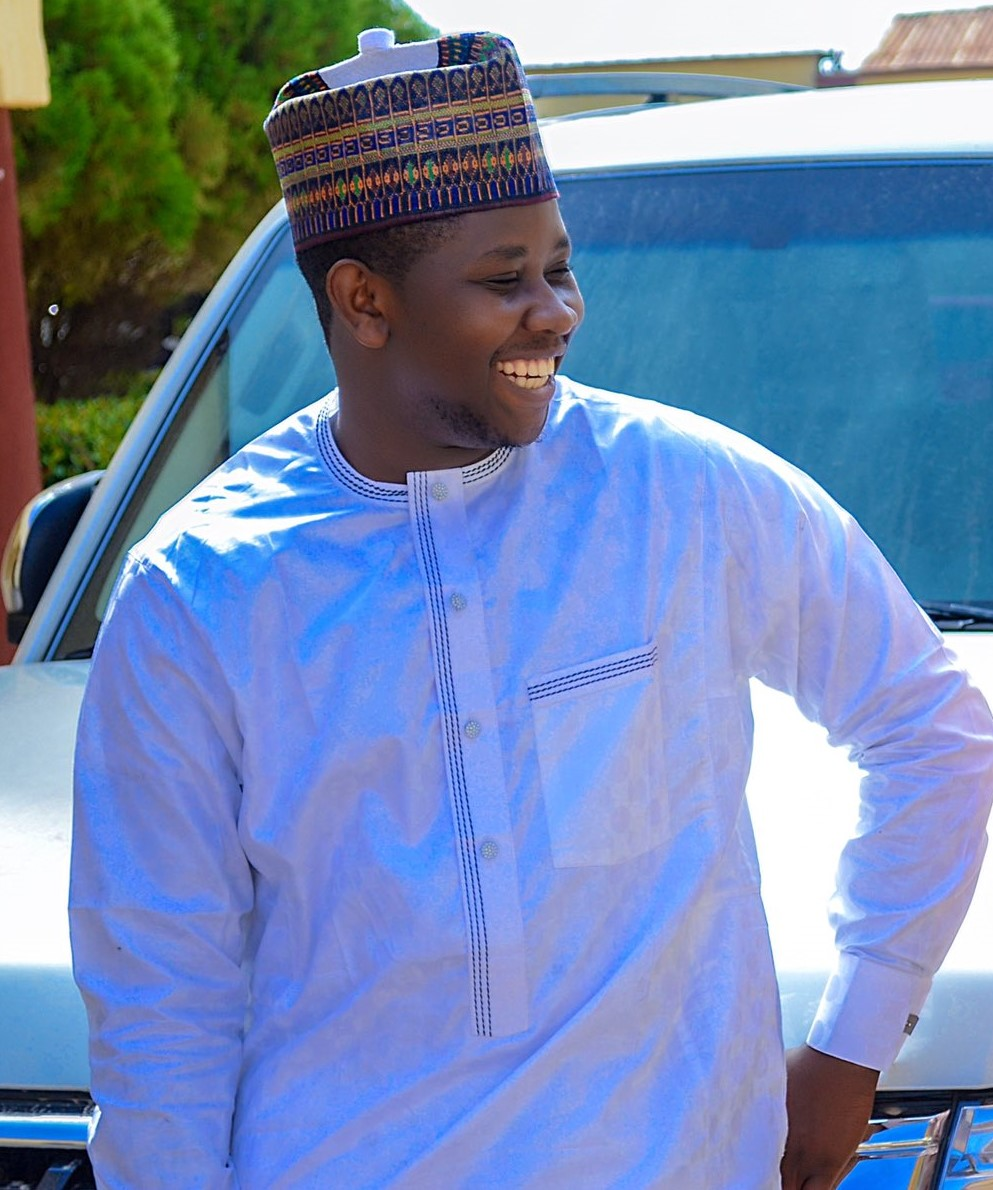
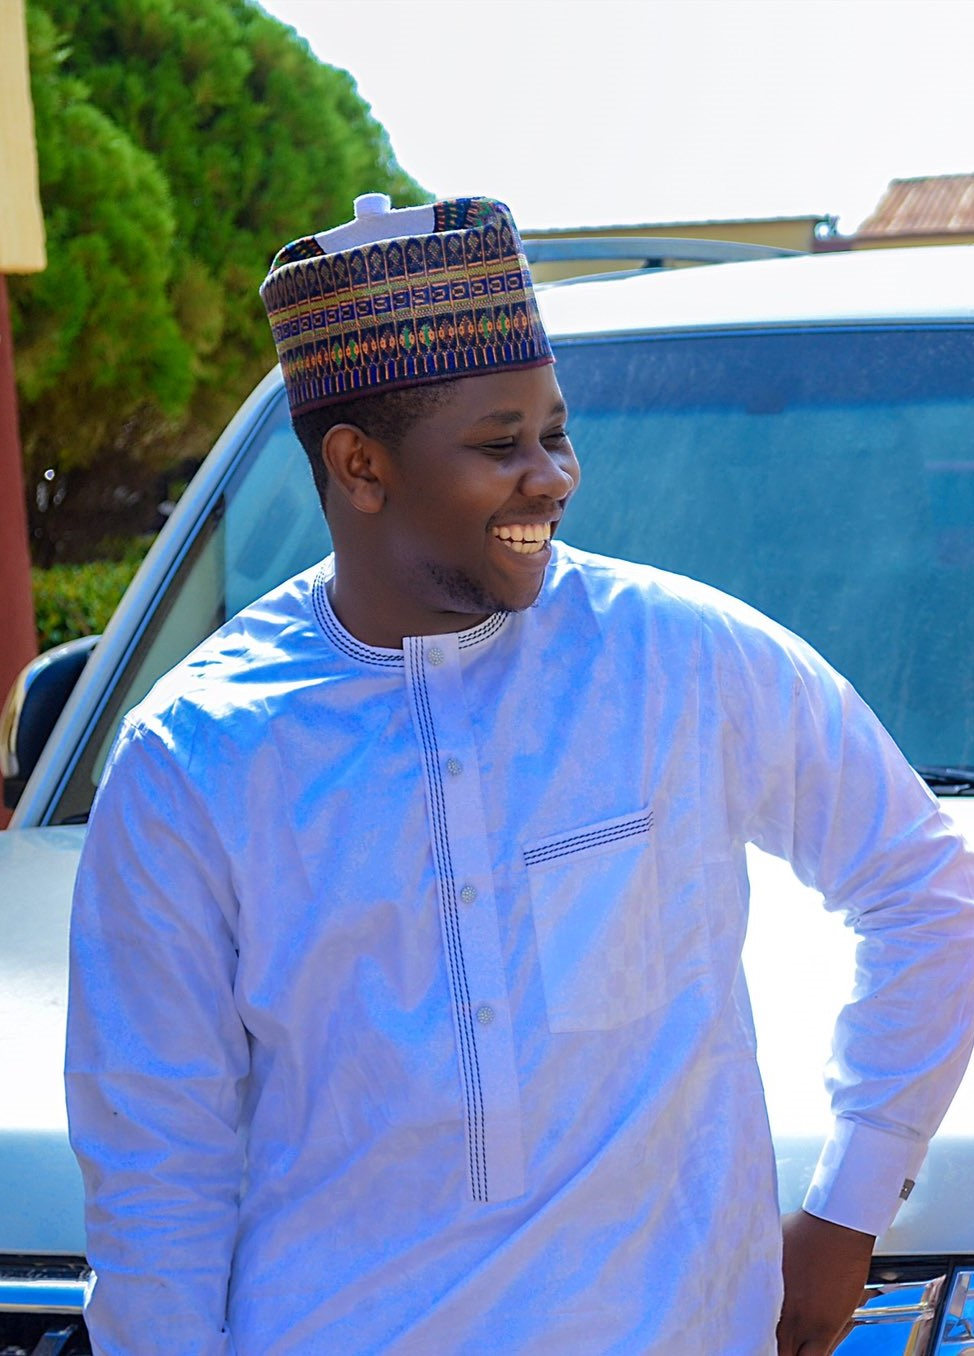
refactor and edit the images

diff --git a/src/components/Overview.vue b/src/components/Overview.vue
@@ -1,6 +1,6 @@
 <template>
   <div class="md:tw-w-5/6 tw-mx-auto tw-mt-10 md:tw-mt-20">
-    <div class="tw-flex tw-flex-wrap tw-justify-between">
+    <div class="tw-flex tw-flex-wrap tw-justify-between tw-mx-8 ">
       <div class="tw-uppercase tw-mx-2 md:tw-mx-0 lg:tw-w-3/6 tw-text-white md:tw-tracking-wide tw-font-serif md:tw-text-center lg:tw-text-left tw-text-2xl sm:tw-text-3xl md:tw-text-5xl">
         bexil computer
         <br />
@@ -16,9 +16,9 @@
           </q-btn>
         </div>
       </div>
-      <div class="sm:tw-mx-auto tw-mx-2">
+      <div class="tw-mx-auto">
         <div class="tw-mt-6">
-          <img class="tw-object-cover tw-shadow-xl tw-w-full sm:tw-w-44 tw-mx-auto hover:tw-opacity-75 tw-opacity-100 tw-h-44 hover:tw-shadow-2xl tw-rounded-3xl tw-overflow-hidden" src="/img/IMG-0565.JPG" alt="">
+          <img class="tw-object-cover tw-shadow-xl tw-w-72 sm:tw-w-56 tw-mx-auto hover:tw-opacity-75 tw-opacity-100 tw-h-44 hover:tw-shadow-2xl tw-rounded-3xl tw-overflow-hidden" src="/img/IMG-0565.JPG" alt="">
           <div class="tw-text-center tw-text-white tw-font-serif tw-text-lg">
             C.E.O
           </div>
@@ -26,9 +26,9 @@
             Yusuf Hayatuddeen
           </div>
         </div>
-        <div class="sm:tw-flex sm:tw-flex-wrap tw-justify-start tw-mt-4">
+        <div class="sm:tw-flex sm:tw-flex-wrap tw-mx-auto tw-justify-start tw-mt-4">
           <div class="sm:tw-mr-10">
-            <img class="tw-object-cover tw-shadow-xl tw-w-full sm:tw-w-44 tw-mx-auto hover:tw-opacity-75 tw-opacity-100 tw-h-44 hover:tw-shadow-2xl tw-rounded-3xl tw-overflow-hidden" src="/img/IMG-1912.jpg" alt="">
+            <img class="tw-object-cover tw-shadow-xl tw-w-72 sm:tw-w-56 tw-mx-auto hover:tw-opacity-75 tw-opacity-100 tw-h-44 hover:tw-shadow-2xl tw-rounded-3xl tw-overflow-hidden" src="/img/IMG-1912_33.jpg" alt="">
             <div class="tw-text-center tw-text-white tw-font-serif tw-text-lg">
               C.T.O
             </div>
@@ -37,7 +37,7 @@
             </div>
           </div>
           <div class="sm:tw-ml-10 tw-mt-4 sm:tw-mt-0">
-            <img class="tw-object-cover tw-shadow-xl tw-w-full sm:tw-w-44 tw-mx-auto hover:tw-opacity-75 tw-opacity-100 tw-h-44 hover:tw-shadow-2xl tw-rounded-3xl tw-overflow-hidden" src="/img/IMG_0035.jpg" alt="">
+            <img class="tw-object-cover tw-shadow-xl tw-w-72 sm:tw-w-56 tw-mx-auto hover:tw-opacity-75 tw-opacity-100 tw-h-44 hover:tw-shadow-2xl tw-rounded-3xl tw-overflow-hidden" src="/img/IMG_0035.jpg" alt="">
             <div class="tw-text-center tw-text-white tw-font-serif tw-text-lg">
               C.O.O
             </div>
@@ -53,7 +53,7 @@
     <span class="">our tested</span> <span class="tw-not-italic tw-text-green-400 tw-font-thin">and</span> <span>trusted</span> <br /> services
   </div>
   <div class="tw-flex tw-flex-wrap tw-mx-4 sm:tw-mx-20 tw-justify-start tw-mt-8">
-    <div class="sm:tw-w-1/2 tw-w-full md:tw-w-1/3 tw-rounded-full tw-h-32">
+    <div class="sm:tw-w-1/2 tw-w-full lg:tw-w-1/3 tw-rounded-full">
       <div class="tw-text-center tw-text-green-400 tw-text-xl tw-font-semibold tw-font-mono">
         Software Development
       </div>
@@ -65,7 +65,7 @@
         programs to refine components like cybersecurity measures and data storage capacities.
       </div>
     </div>
-    <div class="sm:tw-w-1/2 tw-w-full md:tw-w-1/3 tw-rounded-full tw-h-32">
+    <div class="sm:tw-w-1/2 tw-w-full lg:tw-w-1/3 tw-rounded-full">
       <div class="tw-text-center tw-text-green-400 tw-text-xl tw-font-semibold tw-font-mono tw-mt-8 sm:tw-mt-0">
         Facial Recognition Integration
       </div>
@@ -76,7 +76,7 @@
         software is also known as a facial recognition system or face recognition software.
       </div>
     </div>
-    <div class="sm:tw-w-1/2 tw-w-full md:tw-w-1/3 tw-rounded-full tw-h-32">
+    <div class="sm:tw-w-1/2 tw-w-full lg:tw-w-1/3 tw-rounded-full">
       <div class="tw-text-center tw-text-green-400 tw-text-xl tw-font-semibold tw-font-mono tw-mt-16 sm:tw-mt-0">
         Secure-NG
       </div>
@@ -89,7 +89,7 @@
     </div>
   </div>
   <div class="tw-flex tw-flex-wrap tw-mx-4 sm:tw-mx-20 tw-justify-start tw-mt-8">
-    <div class="sm:tw-w-1/2 tw-w-full md:tw-w-1/3 tw-rounded-full tw-h-32 tw-mt-8">
+    <div class="sm:tw-w-1/2 tw-w-full lg:tw-w-1/3 tw-rounded-full tw-mt-8">
       <div class="tw-text-center tw-text-green-400 tw-text-xl tw-font-semibold tw-font-mono tw-mt-4">
         Transport Manifest
       </div>
@@ -101,7 +101,7 @@
         at all time.
       </div>
     </div>
-    <div class="sm:tw-w-1/2 tw-w-full md:tw-w-1/3 tw-rounded-full tw-h-32 tw-mt-8">
+    <div class="sm:tw-w-1/2 tw-w-full lg:tw-w-1/3 tw-rounded-full tw-mt-8">
       <div class="tw-text-center tw-text-green-400 tw-text-xl tw-font-semibold tw-font-mono tw-mt-4">
         Data Optimisation
       </div>
@@ -113,7 +113,7 @@
         known to be a non-specific technique used by several applications in fetching data.
       </div>
     </div>
-    <div class="sm:tw-w-1/2 tw-w-full md:tw-w-1/3 tw-rounded-full tw-h-32 tw-mt-8">
+    <div class="sm:tw-w-1/2 tw-w-full lg:tw-w-1/3 tw-rounded-full tw-mt-8">
       <div class="tw-text-center tw-text-green-400 tw-text-xl tw-font-semibold tw-font-mono tw-mt-4">
         CCTV Installation and Management
       </div>
